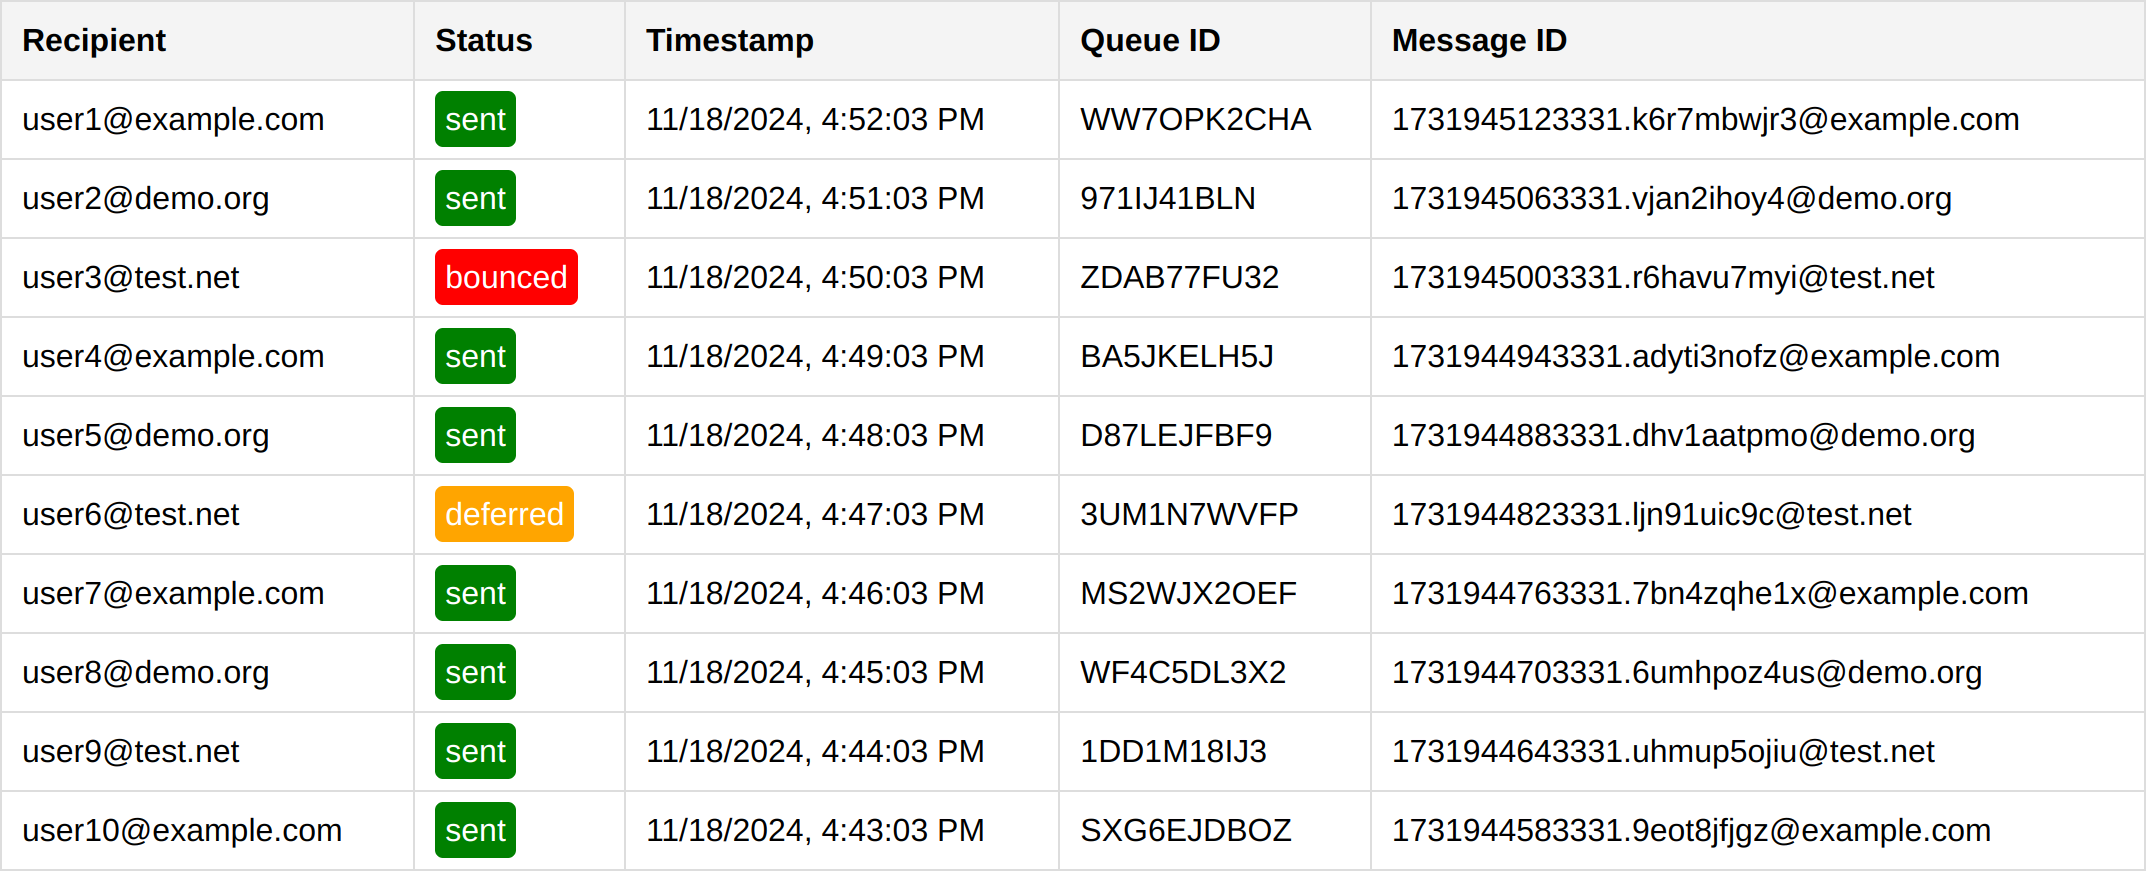
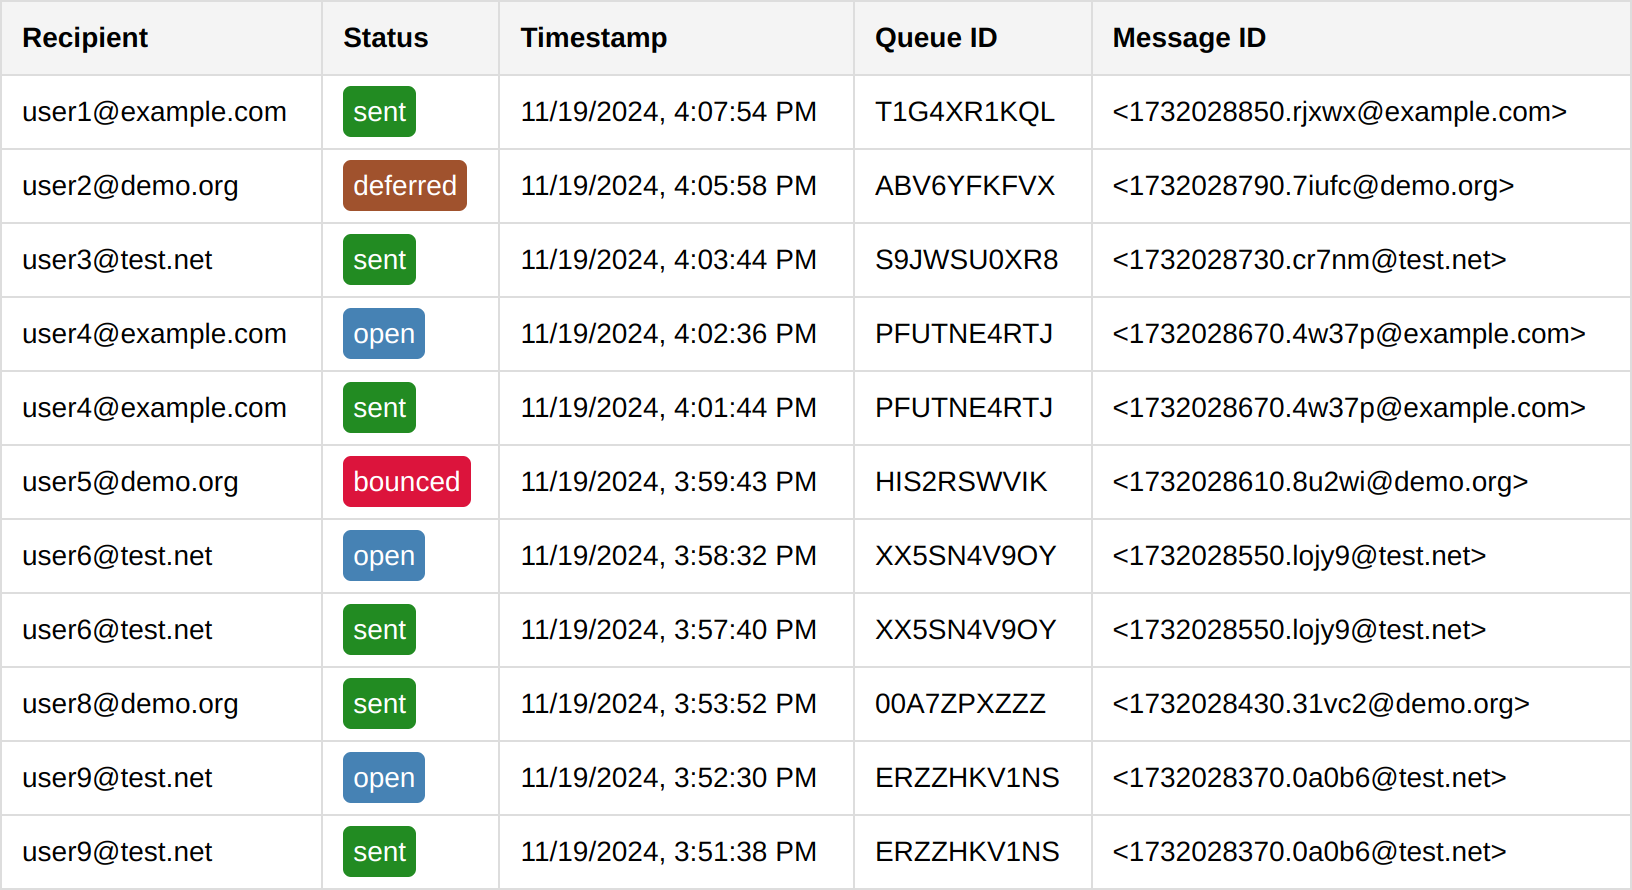
Status color spec, and new screenshot

Changed region(s): [[0.0, 0.031, 1.0, 0.992], [0.1875, 0.031, 0.4062, 0.062], [0.0, 0.031, 0.0938, 0.062]]

diff --git a/src/router.js b/src/router.js
@@ -12,12 +12,12 @@ export const router = express();
 router.use(express.json());
 
 const colors = {
-  processed: '#d6a45e',
-  sent: '#bcd514',
-  open: '#028690',
-  bounced: '#c042be',
-  dropped: '#b2129f',
-  deferred: '#459e1a',
+  processed: 'Gray',
+  sent: 'ForestGreen',
+  open: 'SteelBlue',
+  bounced: 'Crimson',
+  dropped: 'Black',
+  deferred: 'Sienna',
 };
 
 // Home route: Fetch logs, process them, and display results
